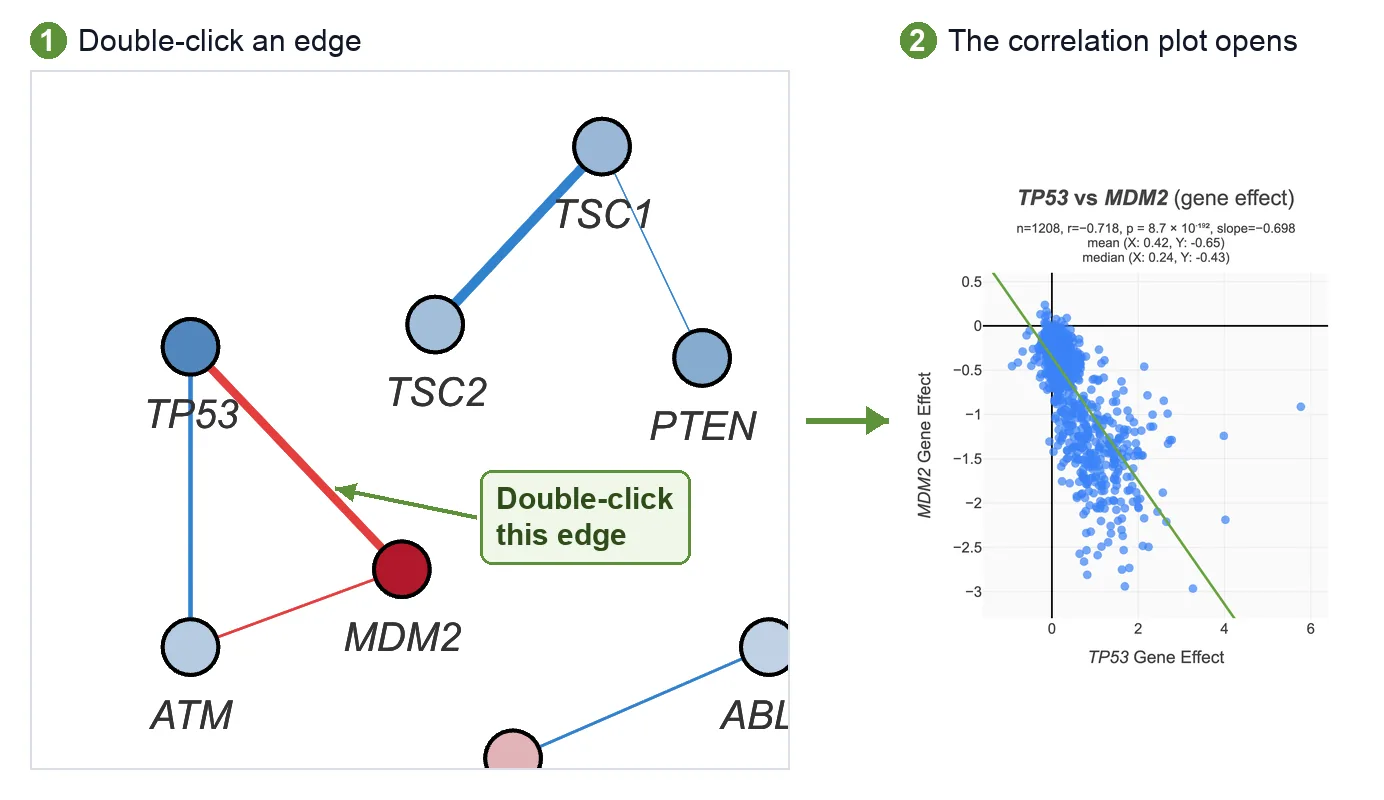
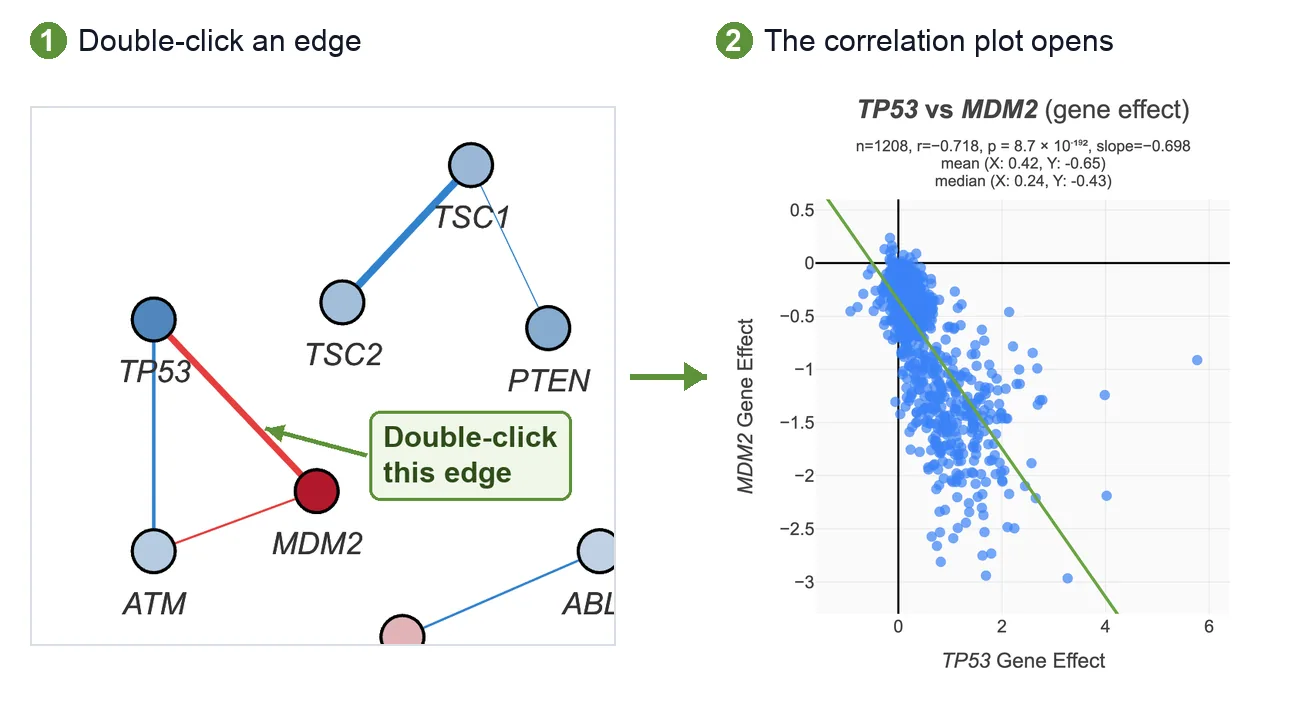
v.91.33: tour: edge figure with network and plot at about the same size
Claude-Session: https://claude.ai/code/session_01GrRsah6zkLaafT5s7nhzFW

diff --git a/index.html b/index.html
@@ -3014,6 +3014,10 @@
                 <button onclick="this.closest('#changelogModal').style.display='none'" style="background:none;border:none;font-size:20px;cursor:pointer;">&times;</button>
             </div>
             <div style="font-size:12px; line-height:1.6; color:#374151;">
+                <p><strong>v.91.33 (2026-10-25)</strong></p>
+                <ul>
+                    <li>Tour of the app: in the edge-to-plot figure the network and the correlation plot are now about the same size.</li>
+                </ul>
                 <p><strong>v.91.32 (2026-10-25)</strong></p>
                 <ul>
                     <li>Tour of the app: the screen-results bullet says Correlate shows the set as a network coloured by your results, or as a correlation matrix.</li>
@@ -8777,7 +8781,7 @@
             </span>
             <!-- Positioned off the row's right end (see #versionBadge CSS), so
                  it sits next to YouTube without moving the centred links. -->
-            <a href="#" id="versionBadge" onclick="event.preventDefault();document.getElementById('changelogModal').style.display='flex'" style="font-family:monospace; font-size:11px; background:#f3f4f6; padding:2px 8px; border-radius:10px; color:#6b7280; border:1px solid #d1d5db; font-weight:400;">v.91.32</a>
+            <a href="#" id="versionBadge" onclick="event.preventDefault();document.getElementById('changelogModal').style.display='flex'" style="font-family:monospace; font-size:11px; background:#f3f4f6; padding:2px 8px; border-radius:10px; color:#6b7280; border:1px solid #d1d5db; font-weight:400;">v.91.33</a>
         </span>
     </div>
 
@@ -12156,6 +12160,6 @@
     </div>
 
     <script src="app.js?v=v91_24"></script>
-    <script src="tour.js?v=v91_32"></script>
+    <script src="tour.js?v=v91_33"></script>
 </body>
 </html>
